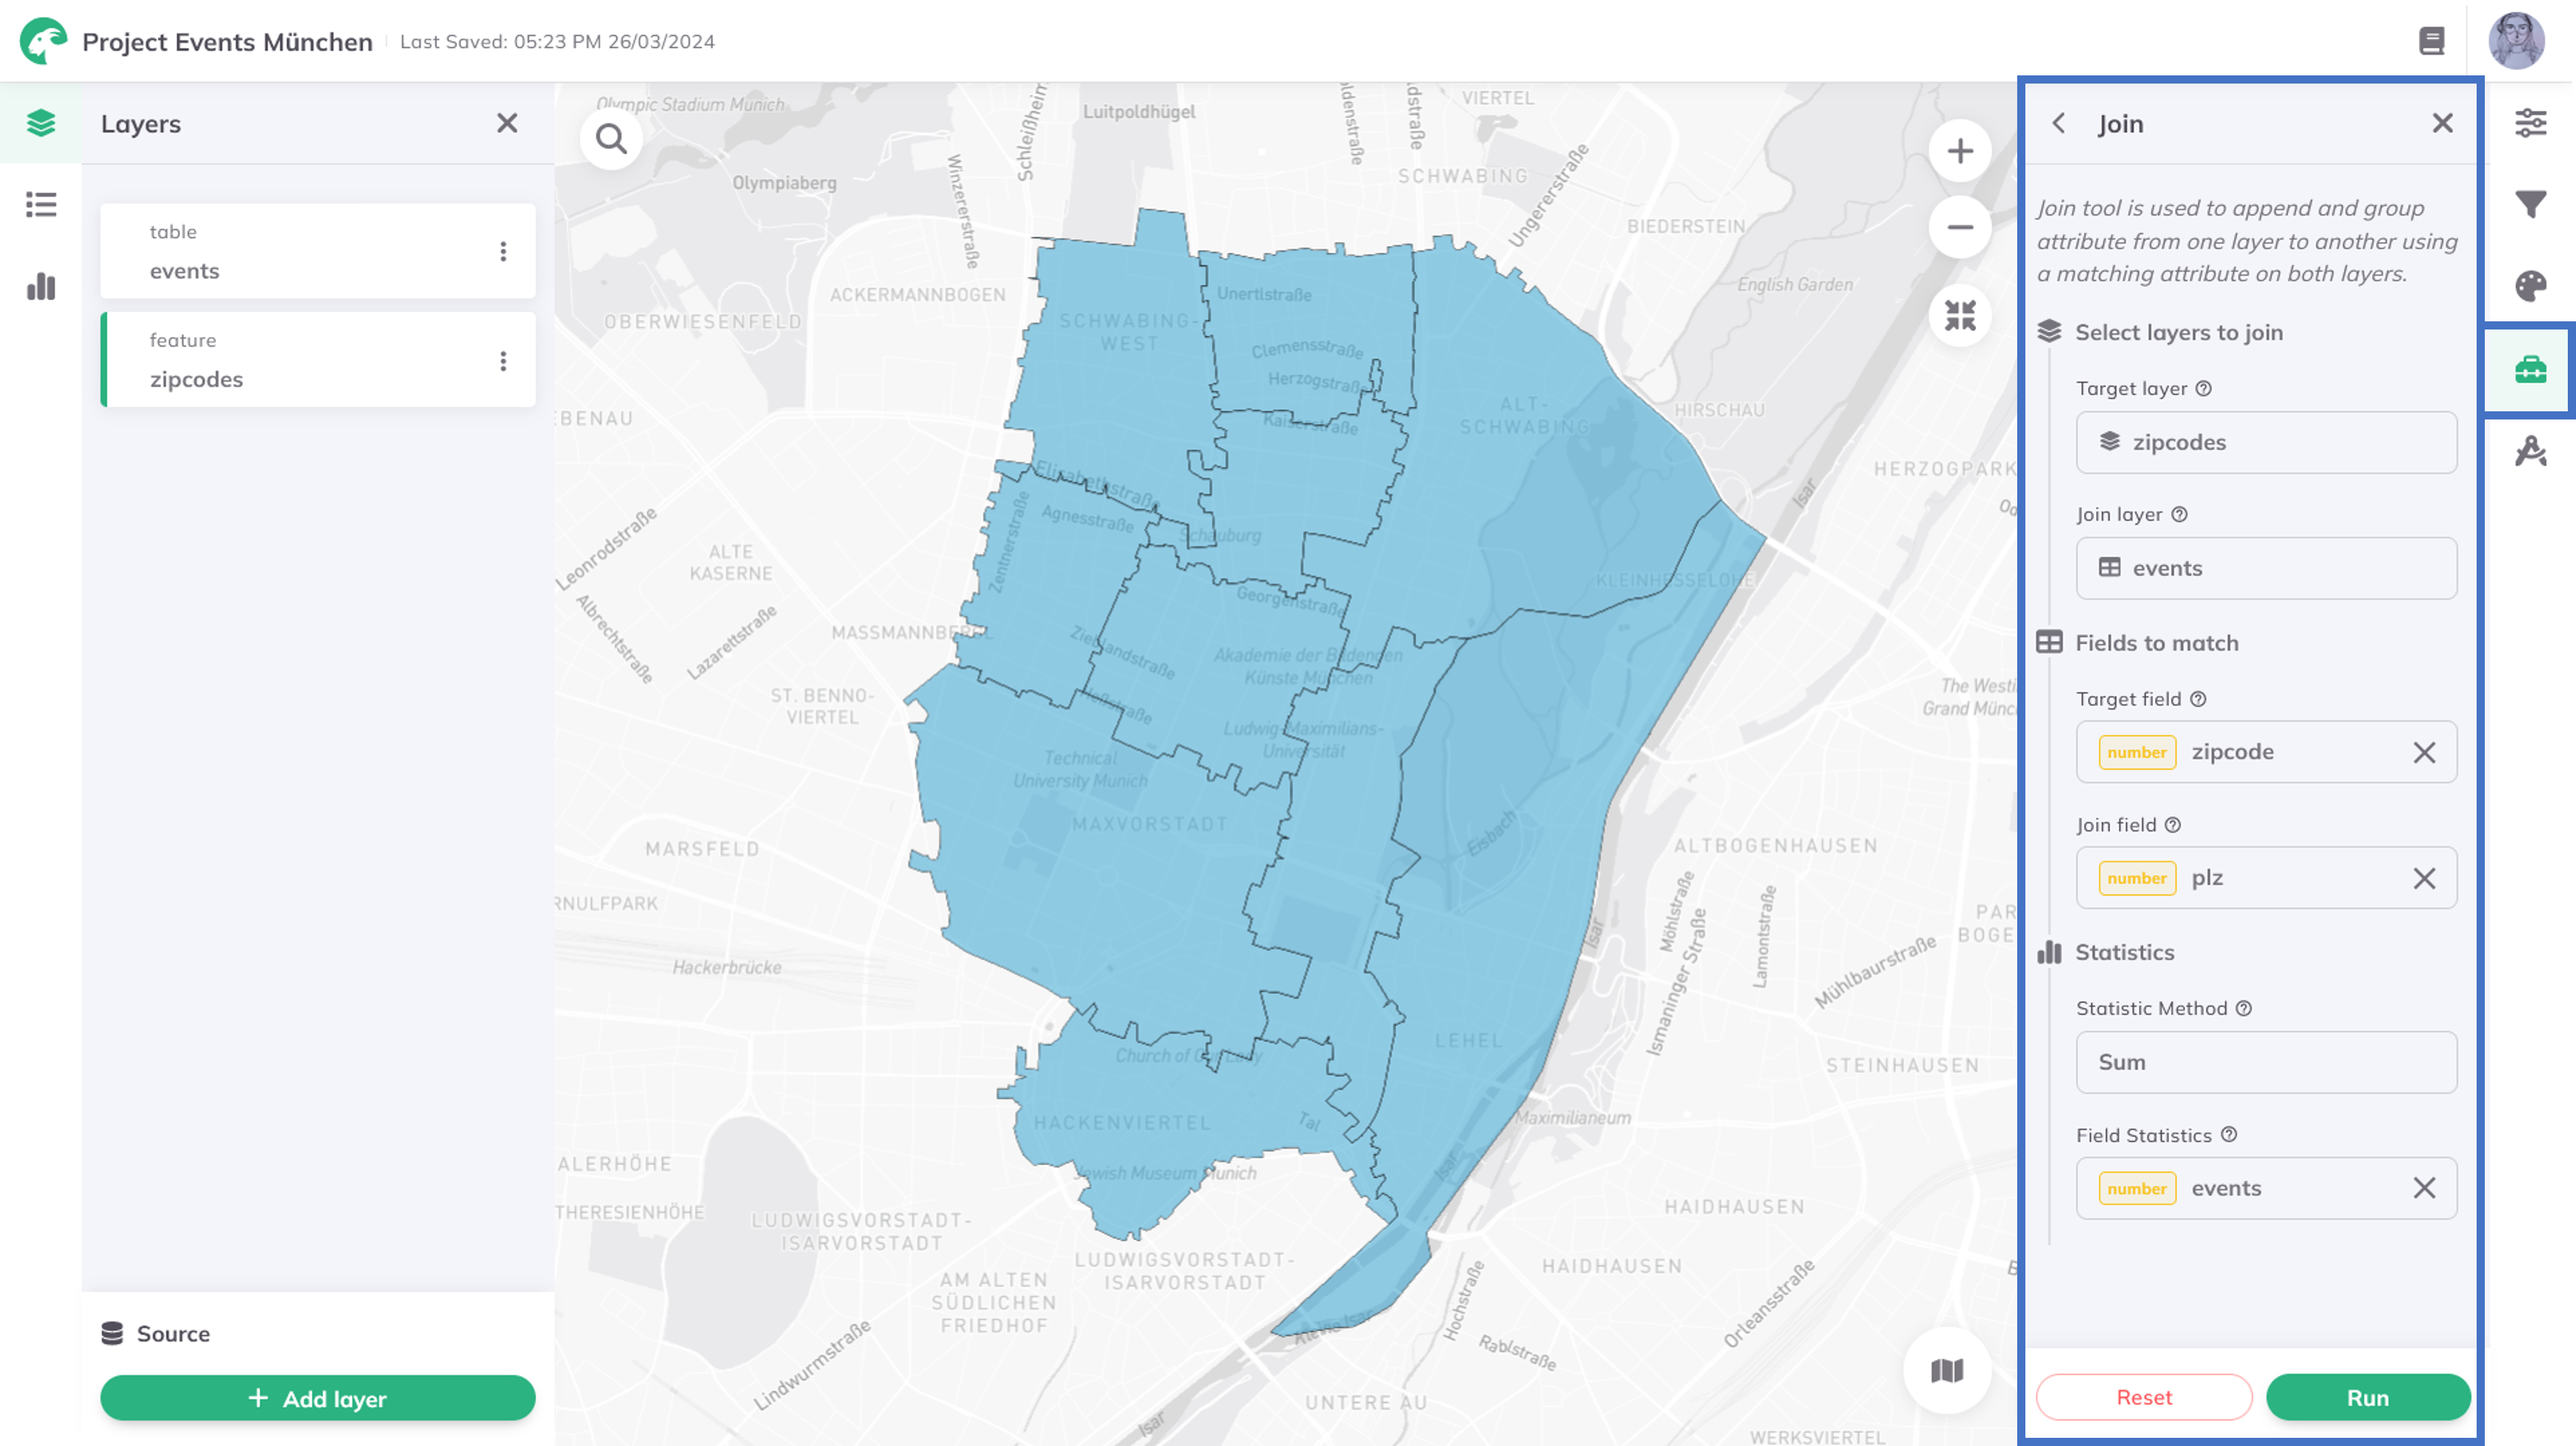
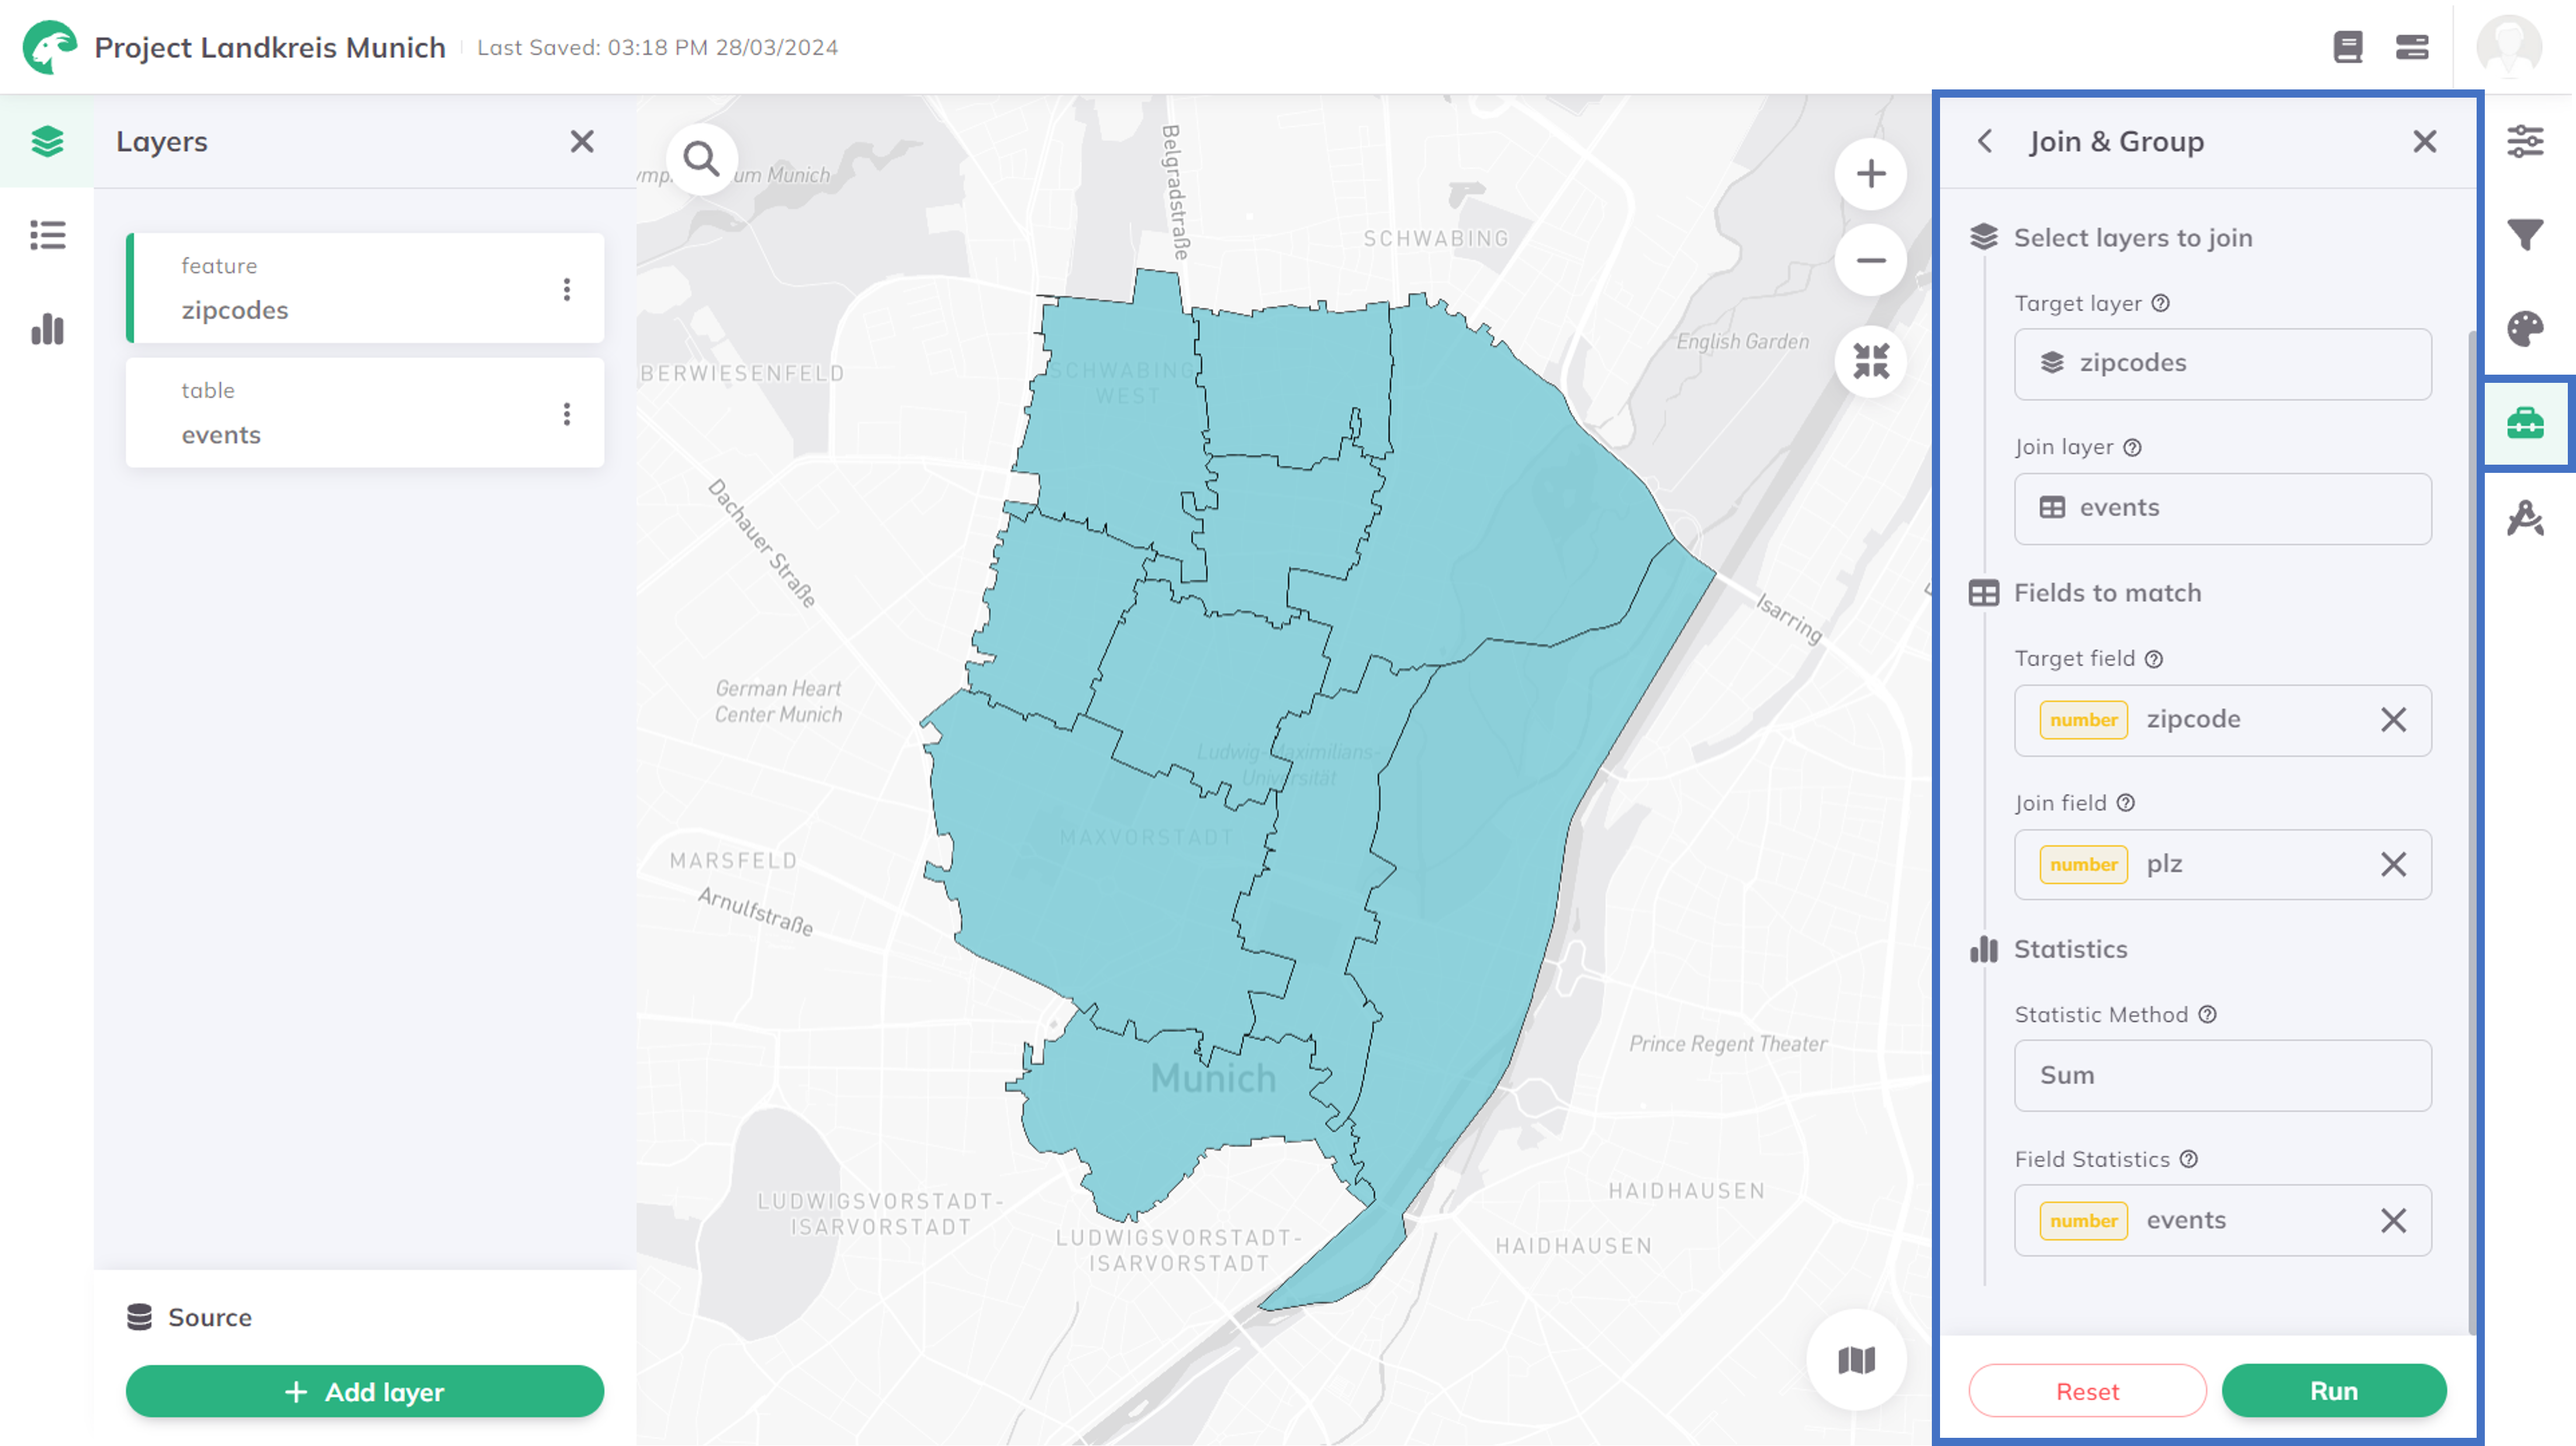
updates on join

diff --git a/docs/toolbox/data_management/join.md b/docs/toolbox/data_management/join.md
@@ -5,9 +5,9 @@ sidebar_position: 1
 import thematicIcon from "/img/toolbox/data_management/join/toolbox.webp";
 
 
-# Join
+# Join & Group
 
-The **Join** tool is used to append attributes from one layer to another using a matching attribute on both layers. 
+Append and group fields from one layer to another using a matching field on both layers.
 
 ## 1. Explanation
 
@@ -37,7 +37,7 @@ GOAT uses the **"Inner Join"** operation to calculate a join which combines rows
 
 <div class="step">
   <div class="step-number">2</div>
-  <div class="content">Under the <code>Data Management</code> menu, click on <code>Join</code>.</div>
+  <div class="content">Under the <code>Data Management</code> menu, click on <code>Join & Group</code>.</div>
 </div>
 
 <div style={{ display: 'flex', flexDirection: 'column', alignItems: 'center' }}>
@@ -76,7 +76,7 @@ GOAT uses the **"Inner Join"** operation to calculate a join which combines rows
 
 <div class="step">
   <div class="step-number">7</div>
-  <div class="content"> Select the <code>Statistical method</code> to be used to join the attribute. </div>
+  <div class="content"> Select the <code>Statistic method</code> to be used to join the attribute. </div>
 </div>
 
 You can choose between several statistical operations. Some methods are only available for specific data types. The following list provides an overview of the available methods:
